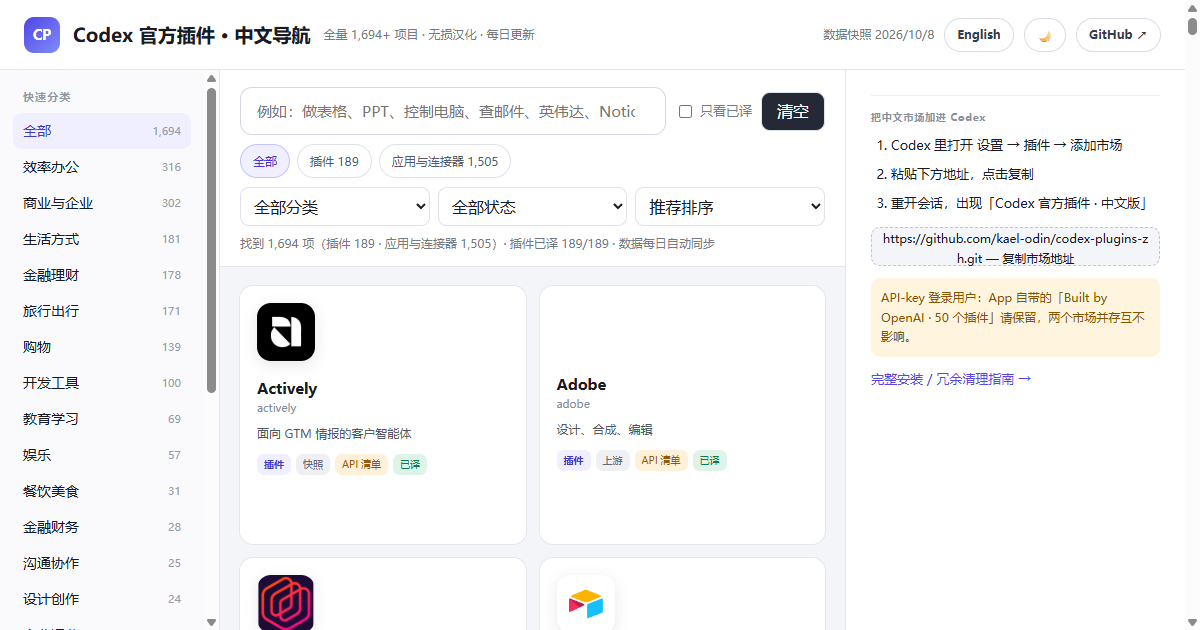
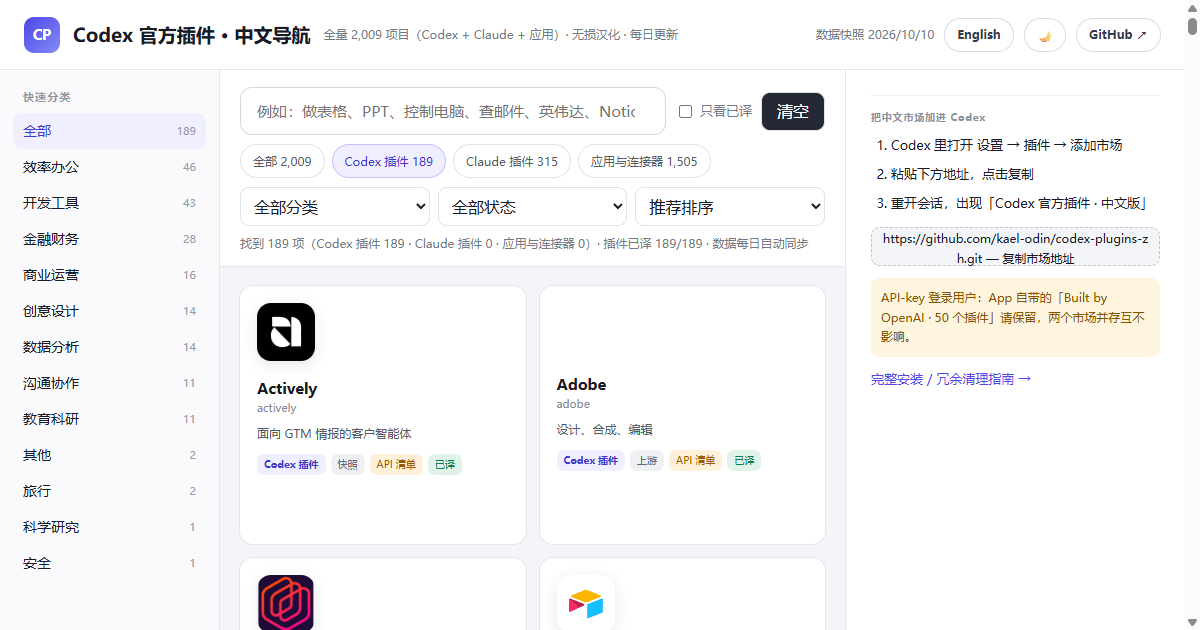
feat: union navigator — Codex + Claude + apps (2,009 items)
- build-site: pull sister claude catalog (live pages first, committed
  snapshot fallback) into dist/claude.json
- site: Claude 插件 pill (315), unified zh category rail, bilingual detail
  with homepage/repo links + claude add-command copy; totals 2,009
- og/site-preview/hero/README numbers synced

diff --git a/site/app.js b/site/app.js
@@ -1,18 +1,23 @@
 const MARKET_URL = 'https://github.com/kael-odin/codex-plugins-zh.git';
+const CLAUDE_CMD = '/plugin marketplace add kael-odin/claude-plugins-zh';
 const GUIDE_URL = 'https://github.com/kael-odin/codex-plugins-zh/blob/main/docs/setup-guide.md';
 
 const I18N = {
   zh: {
     title: 'Codex 官方插件 · 中文导航',
-    subtitle: '全量 1,694+ 项目 · 无损汉化 · 每日更新',
+    subtitle: '全量 2,009 项目（Codex + Claude + 应用）· 无损汉化 · 每日更新',
     searchPh: '例如：做表格、PPT、控制电脑、查邮件、英伟达、Notion...',
     clear: '清空',
     cats: '快速分类',
     all: '全部',
-    quick: { all: '全部', plugin: '插件', app: '应用与连接器' },
-    kindPlugin: '插件',
+    quick: { all: '全部', plugin: 'Codex 插件', claude: 'Claude 插件', app: '应用与连接器' },
+    kindPlugin: 'Codex 插件',
+    kindClaude: 'Claude 插件',
     kindApp: '应用/连接器',
-    summary: (n, p, a, t) => `找到 ${n} 项（插件 ${p} · 应用与连接器 ${a}）· 插件已译 ${t}/189 · 数据每日自动同步`,
+    inRepo: '仓内插件',
+    gitRef: 'git 引用',
+    urlRef: 'URL 引用',
+    summary: (n, p, c, a, t) => `找到 ${n} 项（Codex 插件 ${p} · Claude 插件 ${c} · 应用与连接器 ${a}）· 插件已译 ${t}/189 · 数据每日自动同步`,
     intro: '简介',
     detail: '详细介绍',
     enOriginal: '英文原文',
@@ -38,6 +43,9 @@ const I18N = {
     installHint: 'API-key 登录用户：App 自带的「Built by OpenAI · 50 个插件」请保留，两个市场并存互不影响。',
     footerLegal: '插件内容与商标归 OpenAI 及各自权利人所有；应用目录数据来自 Source-blip 中文导航（2026-07 快照），译文仅供参考，与英文原文冲突时以英文原文为准。',
     appNotice: '这是 ChatGPT 应用/连接器：不能安装进 Codex 市场，此处仅作中文导航。请通过官方网站在 ChatGPT 中使用。',
+    claudeCmd: '/plugin marketplace add kael-odin/claude-plugins-zh',
+    website: '打开官方网站 ↗',
+    repoLink: '查看来源仓库 ↗',
     close: '关闭详情',
     statusAll: '全部状态',
     catAll: '全部分类',
@@ -45,15 +53,19 @@ const I18N = {
   },
   en: {
     title: 'Codex Official Plugins · Chinese Navigator',
-    subtitle: '1,694+ items · lossless Chinese edition · daily updates',
+    subtitle: '2,009 items (Codex + Claude + apps) · lossless Chinese edition · daily updates',
     searchPh: 'e.g. spreadsheet, PPT, browser control, email, NVIDIA, Notion...',
     clear: 'Clear',
     cats: 'Categories',
     all: 'All',
-    quick: { all: 'All', plugin: 'Plugins', app: 'Apps & connectors' },
-    kindPlugin: 'Plugin',
+    quick: { all: 'All', plugin: 'Codex plugins', claude: 'Claude plugins', app: 'Apps & connectors' },
+    kindPlugin: 'Codex plugin',
+    kindClaude: 'Claude plugin',
     kindApp: 'App/Connector',
-    summary: (n, p, a, t) => `${n} items (${p} plugins · ${a} apps & connectors) · ${t}/189 plugins translated · synced daily`,
+    inRepo: 'in-repo',
+    gitRef: 'git ref',
+    urlRef: 'URL ref',
+    summary: (n, p, c, a, t) => `Found ${n} items (Codex ${p} · Claude ${c} · apps ${a}) · ${t}/189 plugins translated · synced daily`,
     intro: 'Intro',
     detail: 'Details',
     enOriginal: 'English original',
@@ -79,6 +91,9 @@ const I18N = {
     installHint: 'API-key users: keep the built-in “Built by OpenAI · 50 plugins” — both marketplaces coexist.',
     footerLegal: 'Plugin content and trademarks belong to OpenAI and their respective owners. Apps dataset from Source-blip (2026-07 snapshot); translations are informational.',
     appNotice: 'This is a ChatGPT app/connector — it cannot be installed into a Codex marketplace; this entry is navigation only. Use it in ChatGPT via the official website.',
+    claudeCmd: '/plugin marketplace add kael-odin/claude-plugins-zh',
+    website: 'Open official website ↗',
+    repoLink: 'Open source repository ↗',
     close: 'Close details',
     statusAll: 'All statuses',
     catAll: 'All categories',
@@ -88,6 +103,7 @@ const I18N = {
 
 const state = { q: '', cat: null, quick: 'plugin', status: '', sort: 'default', onlyZh: false, lang: 'zh', theme: 'light', selected: null };
 let CATALOG = null;
+let CLAUDE = { plugins: [] };
 let APPS = [];
 let ALIASES = {};
 let ITEMS = [];
@@ -150,11 +166,31 @@ function buildItems() {
     ],
     search: [a.en, a.zh, a.plain, a.enDesc, a.category, a.kind, a.status, ...(a.keywords ?? [])],
   }));
-  ITEMS = [...plugins, ...apps];
+  const claude = (CLAUDE.plugins ?? []).map((p) => ({
+    type: 'claude',
+    key: 'claude:' + p.name,
+    icon: null,
+    color: colorFor('claude:' + p.name, null),
+    initial: p.name[0].toUpperCase(),
+    zh: p.name,
+    en: p.author ?? '',
+    desc: p.descriptionZh || p.descriptionEn || '',
+    long: p.descriptionZh || p.descriptionEn || '',
+    longEn: p.descriptionEn,
+    category: p.categoryZh || t().all,
+    badges: [
+      { text: T.kindClaude, cls: 'kind' },
+      { text: p.kind === 'in-repo' ? T.inRepo : p.kind === 'git-subdir' ? T.gitRef : T.urlRef, cls: '' },
+    ],
+    search: [p.name, p.descriptionZh, p.descriptionEn, p.categoryZh, p.author, p.repo],
+    raw: p,
+  }));
+  ITEMS = [...plugins, ...apps, ...claude];
 }
 
 function match(it) {
   if (state.quick === 'plugin' && it.type !== 'plugin') return false;
+  if (state.quick === 'claude' && it.type !== 'claude') return false;
   if (state.quick === 'app' && it.type !== 'app') return false;
   if (state.status && it.status !== state.status) return false;
   if (state.onlyZh && it.type === 'plugin') {
@@ -223,7 +259,13 @@ function renderRail() {
 
 function renderPills() {
   const T = t();
-  const defs = [['all', T.quick.all], ['plugin', `${T.quick.plugin} ${fmt(CATALOG.total)}`], ['app', `${T.quick.app} ${fmt(APPS.length)}`]];
+  const claudeTotal = CLAUDE.plugins?.length ?? 0;
+  const defs = [
+    ['all', `${T.quick.all} ${fmt(ITEMS.length)}`],
+    ['plugin', `${T.quick.plugin} ${fmt(CATALOG.total)}`],
+    ['claude', `${T.quick.claude} ${fmt(claudeTotal)}`],
+    ['app', `${T.quick.app} ${fmt(APPS.length)}`],
+  ];
   $('#pills').innerHTML = defs
     .map(([k, label]) => `<button class="quick-btn ${state.quick === k ? 'active' : ''}" data-k="${k}">${esc(label)}</button>`)
     .join('');
@@ -257,7 +299,9 @@ function renderGrid() {
     el.addEventListener('keydown', (e) => { if (e.key === 'Enter') open(); });
   });
   const pCount = list.filter((i) => i.type === 'plugin').length;
-  $('#count').textContent = T.summary(fmt(list.length), fmt(pCount), fmt(list.length - pCount), `${CATALOG.translated}`);
+  const cCount = list.filter((i) => i.type === 'claude').length;
+  const aCount = list.length - pCount - cCount;
+  $('#count').textContent = T.summary(fmt(list.length), fmt(pCount), fmt(cCount), fmt(aCount), `${CATALOG.translated}`);
 }
 
 function installHTML() {
@@ -347,8 +391,8 @@ function applyI18nStatic() {
   $('#q').placeholder = T.searchPh;
   $('#lang').textContent = state.lang === 'zh' ? 'English' : '中文';
   document.title = state.lang === 'zh'
-    ? 'Codex 官方插件中文市场 · 全量 1,694 项目导航'
-    : 'Codex Official Plugins, in Chinese · 1,694 Items Navigator';
+    ? 'Codex 官方插件中文市场 · 全量 2,009 项目导航'
+    : 'Codex + Claude Official Plugins, in Chinese · 2,009 Items';
   const st = $('#f-status');
   const cur = state.status;
   const statuses = [...new Set(APPS.map((a) => a.status).filter(Boolean))];
@@ -368,10 +412,11 @@ function renderAll() {
 }
 
 async function init() {
-  [CATALOG, APPS, ALIASES] = await Promise.all([
+  [CATALOG, APPS, ALIASES, CLAUDE] = await Promise.all([
     (await fetch('./catalog.json')).json(),
     (await fetch('./apps-zh.json')).json().catch(() => []),
     (await fetch('./plugin-aliases.json')).json().catch(() => ({})),
+    (await fetch('./claude.json')).json().catch(() => ({ plugins: [] })),
   ]);
   state.theme = localStorage.getItem('czh-theme') ?? 'light';
   state.lang = localStorage.getItem('czh-lang') ?? 'zh';

diff --git a/site/index.html b/site/index.html
@@ -3,7 +3,7 @@
 <head>
 <meta charset="utf-8">
 <meta name="viewport" content="width=device-width, initial-scale=1">
-<title>Codex 官方插件中文市场 · 全量 1,694 项目导航</title>
+<title>Codex 官方插件中文市场 · 全量 2,009 项目导航</title>
 <meta name="description" content="自动同步 openai/plugins 的 Codex 官方插件中文市场：189 个插件全汉化 + 1,505 个 ChatGPT 应用/连接器中文条目、真实官方图标、中文日常说法搜索（做表格 / 查邮件 / 英伟达）、中英双语详情、无损汉化机器可证、每日自动更新。">
 <meta name="keywords" content="Codex, Codex 插件, Codex plugin, openai plugins, 插件市场, 中文插件目录, MCP, ChatGPT, ChatGPT 应用, AI 工具导航">
 <link rel="canonical" href="https://kael-odin.github.io/codex-plugins-zh/">
@@ -27,7 +27,7 @@
 <header class="top">
   <div class="logo">CP</div>
   <h1 data-i18n="title">Codex 官方插件 · 中文导航</h1>
-  <span class="tagline" data-i18n="subtitle">全量 1,694+ 项目 · 无损汉化 · 每日更新</span>
+  <span class="tagline" data-i18n="subtitle">全量 2,009 项目（Codex + Claude + 应用）· 无损汉化 · 每日更新</span>
   <div class="top-actions">
     <span class="snap"><span data-i18n="snapshot">数据快照</span> <span id="meta">…</span></span>
     <button id="lang" class="ctl">English</button>

diff --git a/README.md b/README.md
@@ -7,9 +7,9 @@
 **把 OpenAI 官方目录全量变成中文的。**
 - **插件市场（可装进 Codex）**：**189 个官方插件全部汉化**——上游 [openai/plugins](https://github.com/openai/plugins)（62，权威实时）∪ 完整 curated 目录快照（+127，含 ChatGPT 账号专属的远程目录插件）；
 - **应用与连接器导航**：**1,505 个 ChatGPT 应用/连接器**中文条目（复用 [Source-blip 中文导航](https://github.com/Source-blip/codex-plugin-chinese-navigation) 2026-07 数据集与 1,699 个官方图标，MIT）；
-- 合计 **1,694 个项目**，186 个真实官方图标，无损校验 **6,720 个文件 0 分歧**，每日自动跟进上游。
+- 再加姊妹项目 [claude-plugins-zh](https://github.com/kael-odin/claude-plugins-zh)（Claude Code 官方 315 插件，Apache-2.0）——**联合导航合计 2,009 个项目**，186 个真实官方图标，无损校验 **6,720 个文件 0 分歧**，每日自动跟进上游。
 
-适配场景：Codex 接第三方 API / 中转站、不走 OpenAI 官方认证链路、onboarding 没给你配市场——或者你只是想用中文看懂每个插件/应用是干什么的。
+适配场景：Codex / Claude Code 接第三方 API、不走官方认证链路、onboarding 没给你配市场——或者你只是想用中文看懂每个插件/应用是干什么的。
 
 <div align="center">
   <img src="assets/readme/site-preview.png" alt="codex-plugins-zh 全量导航站实景：分类侧栏（全部 1,694）、真实图标卡片、右侧双语详情" width="880">
